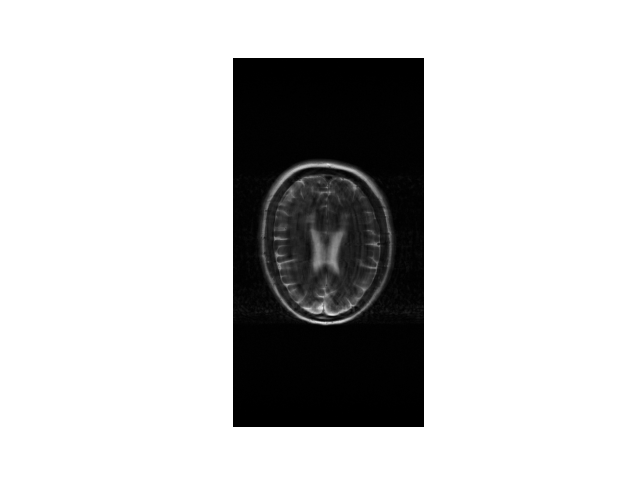
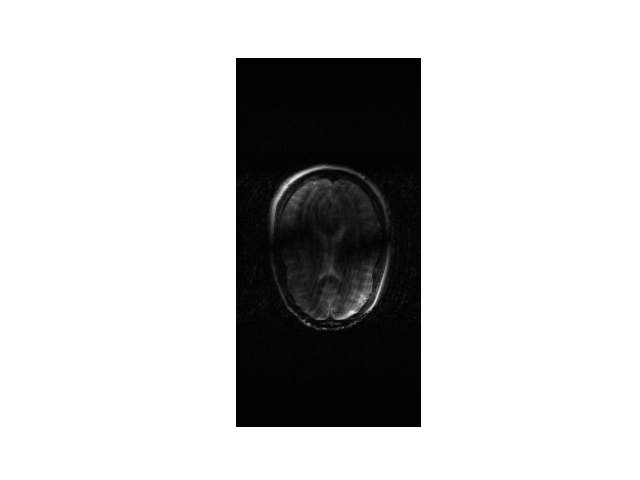
new fft operators

Changed region(s): [[0.4062, 0.3125, 0.625, 0.6875], [0.6562, 0.125, 0.6875, 0.875], [0.3438, 0.125, 0.375, 0.875]]

diff --git a/my_CDLNet/sense.py b/my_CDLNet/sense.py
@@ -5,14 +5,13 @@ import os
 import h5py
 
 from utils import saveimg
-from mri_utils import mri_encoding, mri_decoding, check_adjoint, detect_acc_mask, make_acc_mask, walsh_smaps
+from mri_utils import mri_encoding, mri_decoding, check_adjoint, detect_acc_mask, make_acc_mask, walsh_smaps, fftc, ifftc
 from solvers import conj_grad
 from functools import partial
 
 import argparse
 
 parser = argparse.ArgumentParser()
-parser.add_argument("--test", type=str, help="Run model over specified test set (provided path to image dir).", default=None)
 parser.add_argument("--kspace_path", type =str, help="Corresponding path where kspace data can be found", default = None)
 
 # This will implement SENSE, which essentially performs conjugate gradient on the normal equations for MRI
@@ -29,74 +28,39 @@ def sense(y, acceleration_map, smaps, verbose):
     EHE = partial(eHe, mri_encoding = E, mri_decoding = EH)
     # If we have y = Ex, then we want to work with E^Hy = E^HEx, i.e. our symmetric operator is EHE
     EHy = EH(y)
-
-    # Look at kspace to make sure E is correct
-    y_fake = E(EHy)
-    # Load first slice of y
-    saveimg(torch.log10(y_fake[0, :, :].abs()+1e-8), "kspaceslice1.png")
-    saveimg(acceleration_map, "mask.png")
     
-    # Take y_fake and try to recreate x_fake
-    # Apply mask to each channel of y
-    y_mask = y_fake * acceleration_map[None]
-    # Apply ifft2
-    x_coils = fft.ifft2(y_mask, norm = 'ortho')
-    # Coil combination
-    x = torch.einsum("ijk, ijk -> jk", smaps.conj(), x_coils)
-    # View xfake
-    saveimg(x_coils[0, :, :], "EEHy.png")
-
-    breakpoint()
     return conj_grad(EHE, EH(y), tol = 1e-6, max_iter = 50, verbose = verbose)
 
 def main(args):
     ngpu = torch.cuda.device_count()
     device = torch.device("cuda:0" if ngpu > 0 else "cpu")
     print(f"Using device {device}.")
-    # Take an input argument that specifies a test directory 
-    # loader = data.get_data_loader([args.test], load_color=False, test=True, get_smaps = True)
-    # Get some sample image 
-    fname = 'file_brain_AXT2_210_2100095.h5'
+    
     slice = 3
-    #base_fname = os.path.join(args.test, fname)
-    #with h5py.File(base_fname) as f:
-    #    image = f['image'][slice, :, :]
-    #    smaps = f['smaps'][slice, :, :, :]
-    # image, smaps, slice, path = next(iter(loader))
-    # fname = os.path.basename(path[0])
-    # Find the file at the kspace path
-    kspace_fname = os.path.join(args.kspace_path, fname)
+    kspace_fname = args.kspace_path
     with h5py.File(kspace_fname) as f:
-        kspace = f['kspace'][slice, :, :,  :]
+        kspace = f['kspace'][slice, :, :, :]
     # Squeeze smaps, also conjugate since they come as conjugated form
     # smaps = smaps[0, :, :, :].conj()
     kspace = torch.from_numpy(kspace)  
-    smaps = walsh_smaps(torch.fft.fftshift(torch.fft.ifft2(kspace[None, :, :, :]), dim = (-2, -1)))
+    smaps = walsh_smaps(fftc(fft.fftshift(kspace[None])))
     smaps = torch.squeeze(smaps.conj())
     # Detect acceleration maps
     #mask = detect_acc_mask(kspace)
-    # Make an acceleration map
+
     _, mask = make_acc_mask(shape = (smaps.shape[1], smaps.shape[2]), accel = 2, acs_lines = 24)
-    # Switch axes and send to GPU
+    # Send to GPU
     smaps = smaps.to(device)
-    # Normalize smaps for SENSE
-    power = torch.sum(torch.abs(smaps)**2, dim=0, keepdim=True)
-    # smaps = smaps / torch.sqrt(power + 1e-8)
+    # Scale kspace and send to GPU
     kspace = kspace.to(device) * 1e5
     mask = mask.to(device)
     # Mask kspace
-    kspace_masked = torch.complex(mask[None, :, :], torch.zeros_like(mask[None, :, :])) * kspace
+    kspace_masked = mask * kspace
     
     gnd_truth = (mri_decoding(kspace, torch.ones(smaps.shape[1], smaps.shape[2], device = device), smaps))
     saveimg(gnd_truth, "EHy.png")
-    saveimg(torch.log10(kspace[0, :, :].abs()), "kspaceslice1_fullysampled.png")
-    # Extract a slice of kspace and save it
-    kspace_from_gnd_truth = mri_encoding(gnd_truth, torch.ones(mask.shape[0], mask.shape[1], device = device), smaps)
-    breakpoint()
     mri_recon, tol_reached = sense(kspace_masked, mask, smaps, verbose = True)
-
     zero_filled_recon = mri_decoding(kspace_masked, mask, smaps)
-    mri_recon = mri_recon
     breakpoint()
     saveimg(zero_filled_recon, "test_zerofilled.png")
     saveimg(mri_recon, "test_sense.png")

diff --git a/my_CDLNet/mri_utils.py b/my_CDLNet/mri_utils.py
@@ -19,7 +19,7 @@ def mri_encoding(x, acceleration_map, smaps):
     # We take a sensitivity map and assume it performs elementwise multiplication in the image domain [C x N x N]
     x_coils = smaps[:, :]* x[None, :, :]
     # x_coils is C x N x N
-    y_coils = fft.fftshift(fft.fft2(fft.ifftshift(x_coils, dim = (1, 2)), norm = 'ortho'), dim = (1,2))
+    y_coils = fftc(x_coils)
     # y_coils is C x N x N
     mask = acceleration_map
     y_mask = y_coils * mask[None]
@@ -30,7 +30,7 @@ def mri_decoding(y, acceleration_map, smaps):
     # Apply mask to each channel of y
     y_mask = y * acceleration_map[None]
     # Apply ifft2
-    x_coils = fft.fftshift(fft.ifft2(fft.ifftshift(y_mask, dim = (1, 2)), norm = 'ortho'), dim = (1, 2))
+    x_coils = ifftc(y_mask)
     # Coil combination
     x = torch.einsum("ijk, ijk -> jk", smaps.conj(), x_coils)
     return x
@@ -188,3 +188,10 @@ def walsh_smaps(y: torch.Tensor, ks: int = 5, stride: int = 2):
     norm = smaps.abs().pow(2).sum(dim=1, keepdim=True)
     smaps /= (norm.sqrt() + 1e-8)
     return smaps
+
+def fftc(x, dim = (-2, -1), mode = 'ortho'):
+    return fft.fftshift(fft.fftn(fft.ifftshift(x, dim = dim), dim = dim, norm = mode), dim = dim)
+
+
+def ifftc(x, dim = (-2, -1), mode = 'ortho'):
+    return fft.fftshift(fft.ifftn(fft.ifftshift(x, dim = dim), dim = dim, norm = mode), dim = dim)

diff --git a/my_CDLNet/utils.py b/my_CDLNet/utils.py
@@ -1,4 +1,5 @@
 import torch
+import torch.fft as fft
 import matplotlib.pyplot as plt
 from PIL import Image
 from torchvision.transforms.functional import to_tensor
